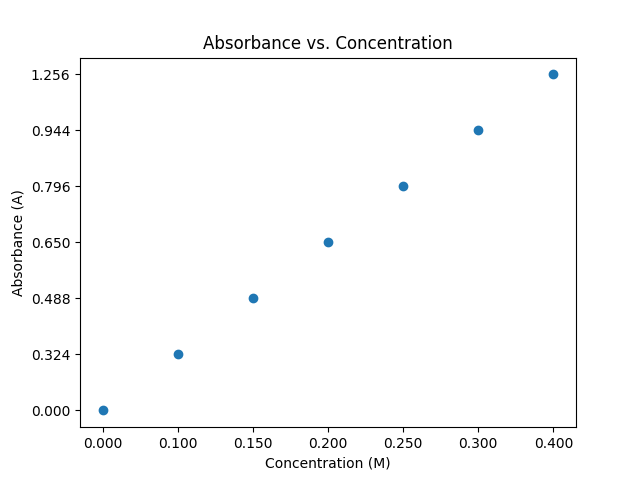
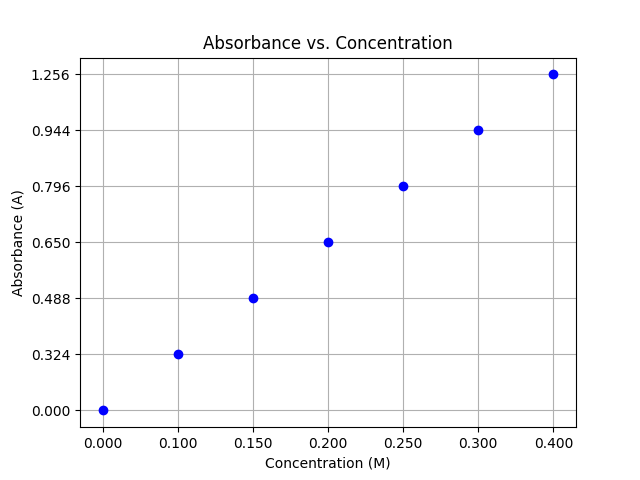
switched in plot method

diff --git a/reports/test-report/script.py b/reports/test-report/script.py
@@ -49,7 +49,7 @@ concentration_absorbance_table = DataTable.from_csv("raw-data/concentration-abso
 print(concentration_absorbance_table)
 # Plot the Absorbance vs. Concentration in a scatter plot
 c_a_fig, c_a_ax = plt.subplots(nrows=1, ncols=1)
-c_a_ax.scatter(concentration_absorbance_table["Concentration (M)"], concentration_absorbance_table["Absorbance (A)"])
+c_a_ax.plot(concentration_absorbance_table["Concentration (M)"], concentration_absorbance_table["Absorbance (A)"], "bo")
 c_a_ax.set_title("Absorbance vs. Concentration")
 # Customize the x-axis
 c_a_ax.set_xlabel("Concentration (M)")
